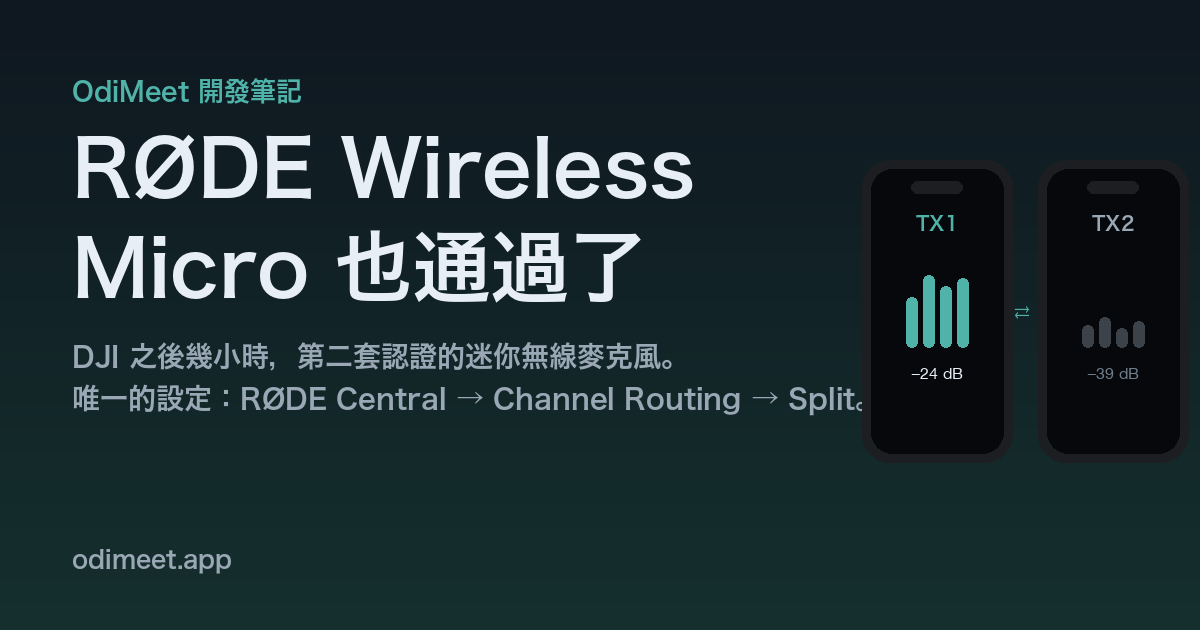
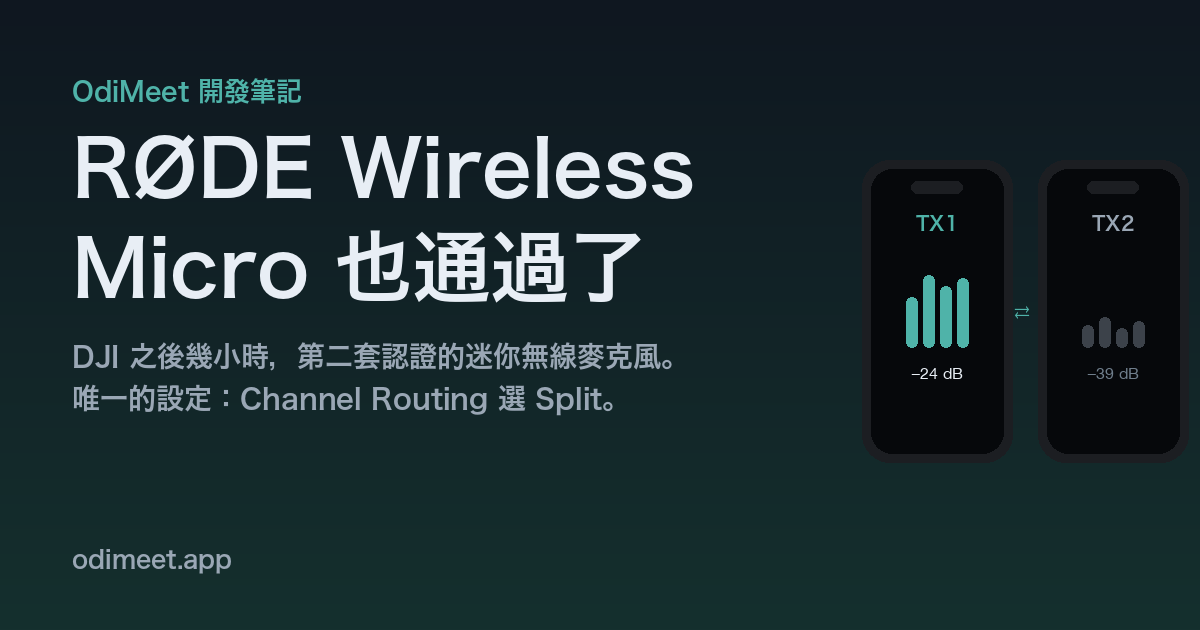
og(rode): shorter zh subline (was crossing the artwork)

Changed region(s): [[0.185, 0.6032, 0.6167, 0.6635], [0.6475, 0.6032, 0.7092, 0.6635]]

diff --git a/scripts/og_note.py b/scripts/og_note.py
@@ -14,7 +14,7 @@ TEXTS["rode-wireless-micro"] = {
   # Hiragino Sans (JP) W6: Hiragino Sans GB has no Ø glyph (renders tofu).
   "zh": dict(kicker="OdiMeet 開發筆記",
              title=["RØDE Wireless", "Micro 也通過了"],
-             sub="DJI 之後幾小時，第二套認證的迷你無線麥克風。\n唯一的設定：RØDE Central 裡把 Channel Routing 選 Split。",
+             sub="DJI 之後幾小時，第二套認證的迷你無線麥克風。\n唯一的設定：Channel Routing 選 Split。",
              font="/System/Library/Fonts/ヒラギノ角ゴシック W6.ttc", bold_index=0, kfont_index=0, a="TX1", b="TX2"),
 }
 TEXTS["dji-mic-mini"] = {
